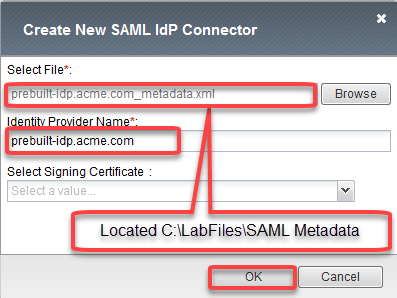
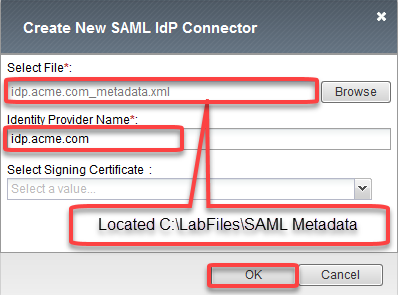
s

Changed region(s): [[0.0, 0.0, 1.0, 1.0], [0.0605, 0.061, 0.665, 0.122]]

diff --git a/lab1.rst b/lab1.rst
@@ -95,13 +95,13 @@ Refer to the instructions and screen shots below:
 +----------------------------------------------------------------------------------------------+
 | #. In the **Create New SAML IdP Connector** dialogue box, click **Browse** and select        |
 |                                                                                              |
-|    the **prebuilt-idp.acme.com_metadata.xml** file from the Desktop of your jump host.       |
+|    the **idp.acme.com_metadata.xml** file from the C:\Labfiles\SAML Metadata jump host.      |
 |                                                                                              |
-| #. In the **Identity Provider Name** field enter the following: **prebuilt-idp.acme.com**    |
+| #. In the **Identity Provider Name** field enter the following: **idp.acme.com**             |
 |                                                                                              |
 | #. Click **OK** on the dialogue box.                                                         |
 |                                                                                              |
-| *Note: The idp.acme.com-app_metadata.xml was created previously. Oftentimes, iDP*            |
+| *Note: The idp.acme.com_metadata.xml was created previously. Oftentimes, iDP*                |
 |                                                                                              |
 | *providers will have a metadata file representing their IdP service. This can be*            |
 |                                                                                              |
@@ -120,7 +120,7 @@ Refer to the instructions and screen shots below:
 |                                                                                              |
 |    horizontal navigation menu.                                                               |
 |                                                                                              |
-| #. Click the **Checkbox** next to the previously created **app.f5demo.com** and select       |
+| #. Click the **Checkbox** next to the previously created **app.acme.com** and select         |
 |                                                                                              |
 |    **Bind/Unbind IdP Connectors** button at the bottom of the GUI.                           |
 +----------------------------------------------------------------------------------------------+
@@ -132,7 +132,7 @@ Refer to the instructions and screen shots below:
 |                                                                                              |
 | #. In the added row click the **Down Arrow** under **SAML IdP Connectors** and select the    |
 |                                                                                              |
-|    **/Common/idp.partner.com** SAML IdP Connector previously created.                        |
+|    **/Common/idp.acme.com** SAML IdP Connector previously created.                           |
 |                                                                                              |
 | #. Click the **Update** button and the **OK** button at the bottom of the dialogue box.      |
 +----------------------------------------------------------------------------------------------+
